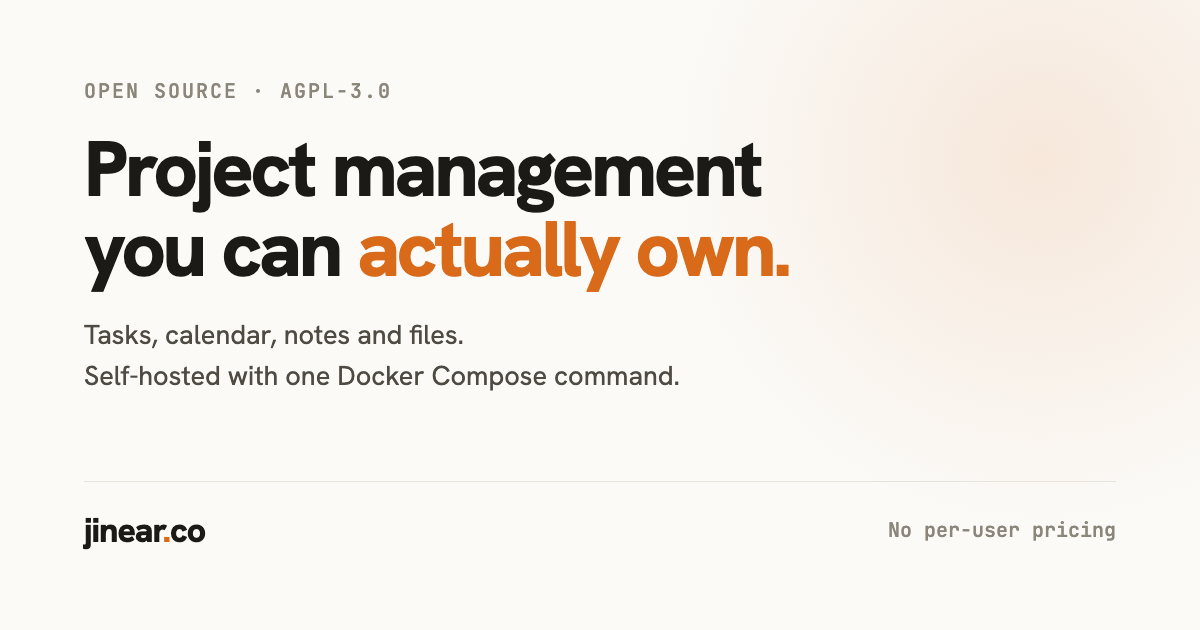
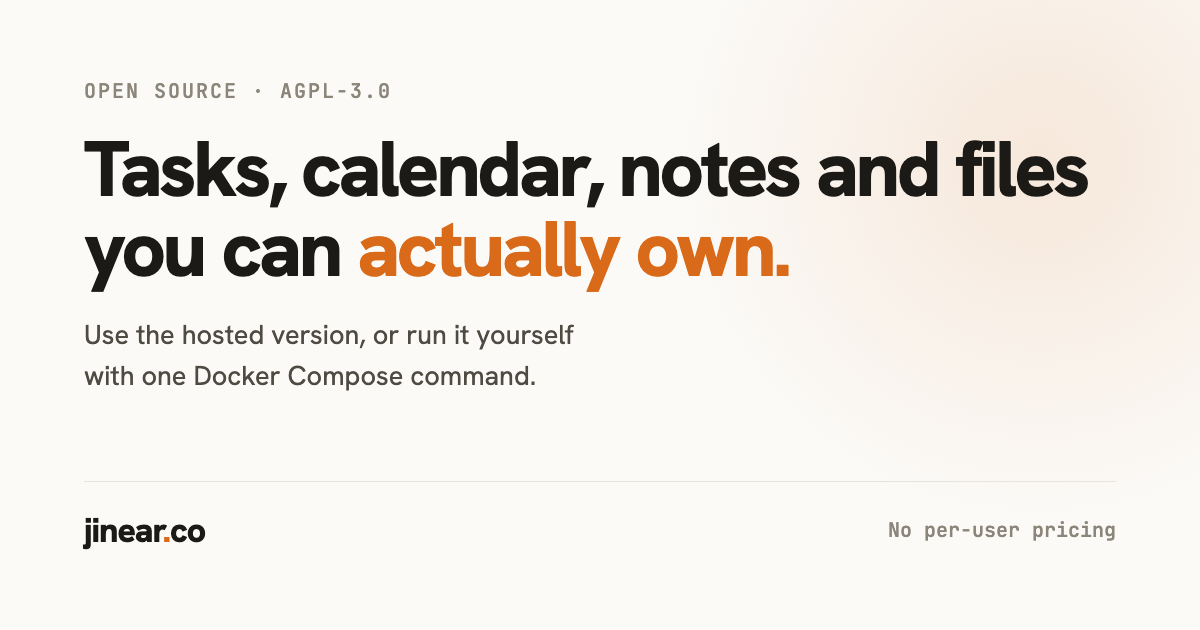
feature/jin-580: Update OG image text and SEO alt description for clarity

Changed region(s): [[0.0617, 0.2111, 0.925, 0.3619], [0.0617, 0.573, 0.555, 0.6333], [0.0617, 0.5127, 0.4933, 0.5429]]

diff --git a/jinear-site/scripts/og-image.html b/jinear-site/scripts/og-image.html
@@ -89,8 +89,8 @@
 <body>
   <div class="top">
     <div class="eyebrow">Open source · AGPL-3.0</div>
-    <h1>Project management<br />you can <span class="accent">actually own.</span></h1>
-    <p>Tasks, calendar, notes and files.<br />Self-hosted with one Docker Compose command.</p>
+    <h1>Tasks, calendar, notes and files<br />you can <span class="accent">actually own.</span></h1>
+    <p>Use the hosted version, or run it yourself<br />with one Docker Compose command.</p>
   </div>
 
   <div class="foot">

diff --git a/jinear-site/utils/seo.ts b/jinear-site/utils/seo.ts
@@ -11,7 +11,7 @@ export const OG_IMAGE = {
   url: "/og.png",
   width: 1200,
   height: 630,
-  alt: "Jinear, open-source, self-hostable task management and calendar",
+  alt: "Jinear: open-source tasks, calendar, notes and files you can actually own",
 };
 
 const TWITTER_HANDLE = "@usejinear";
